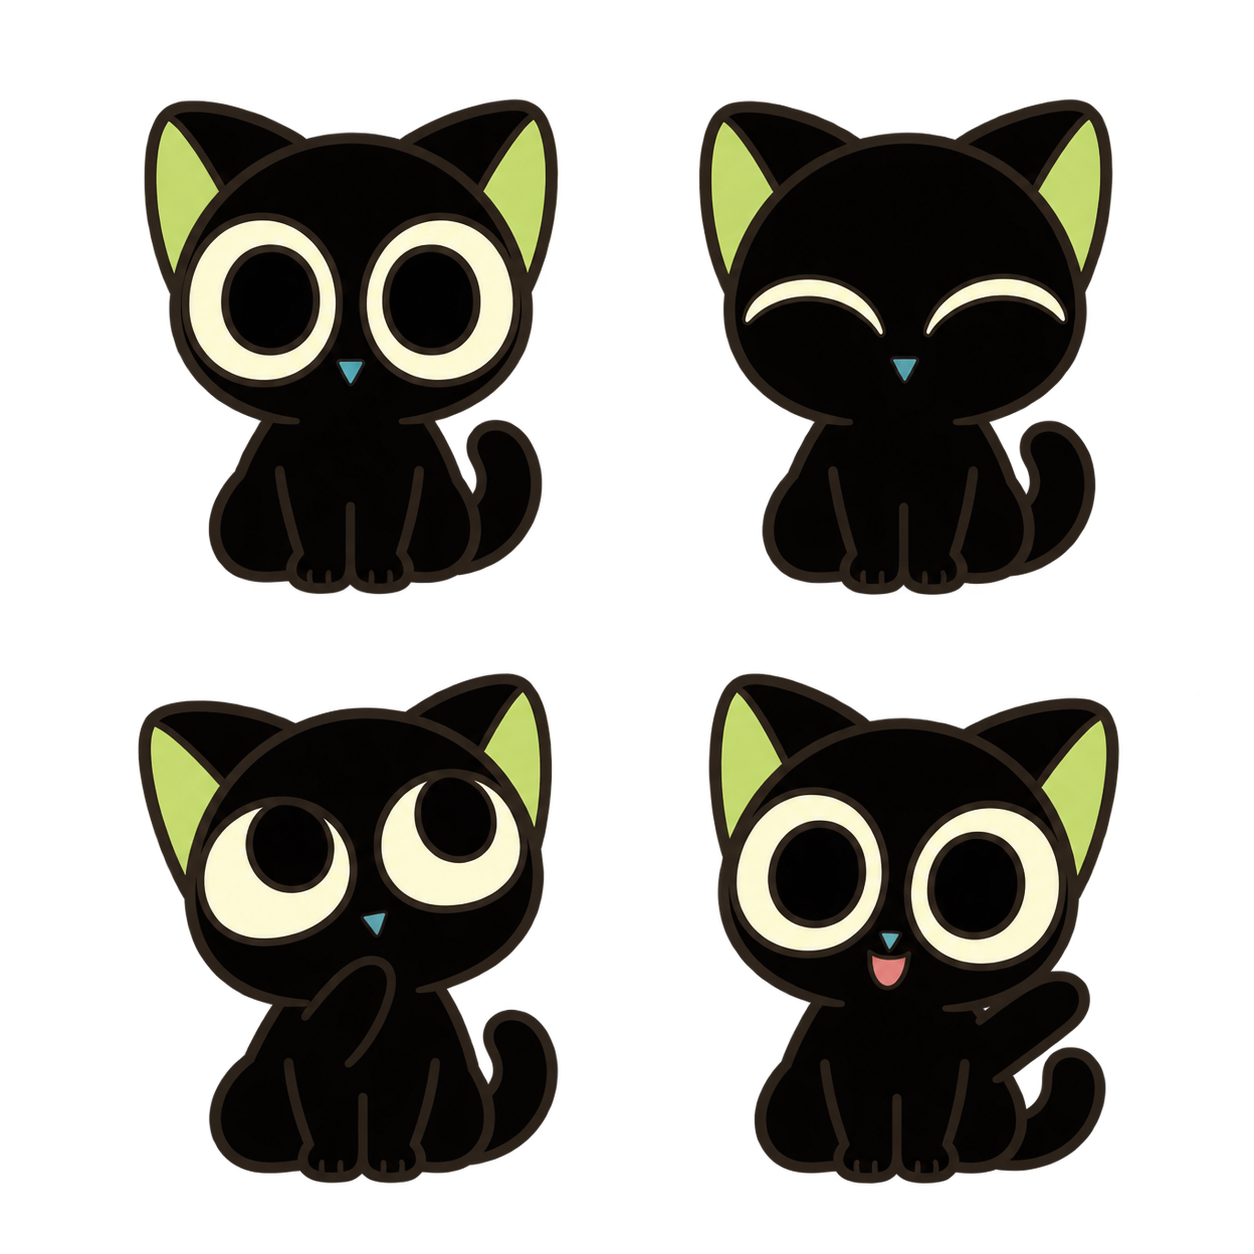
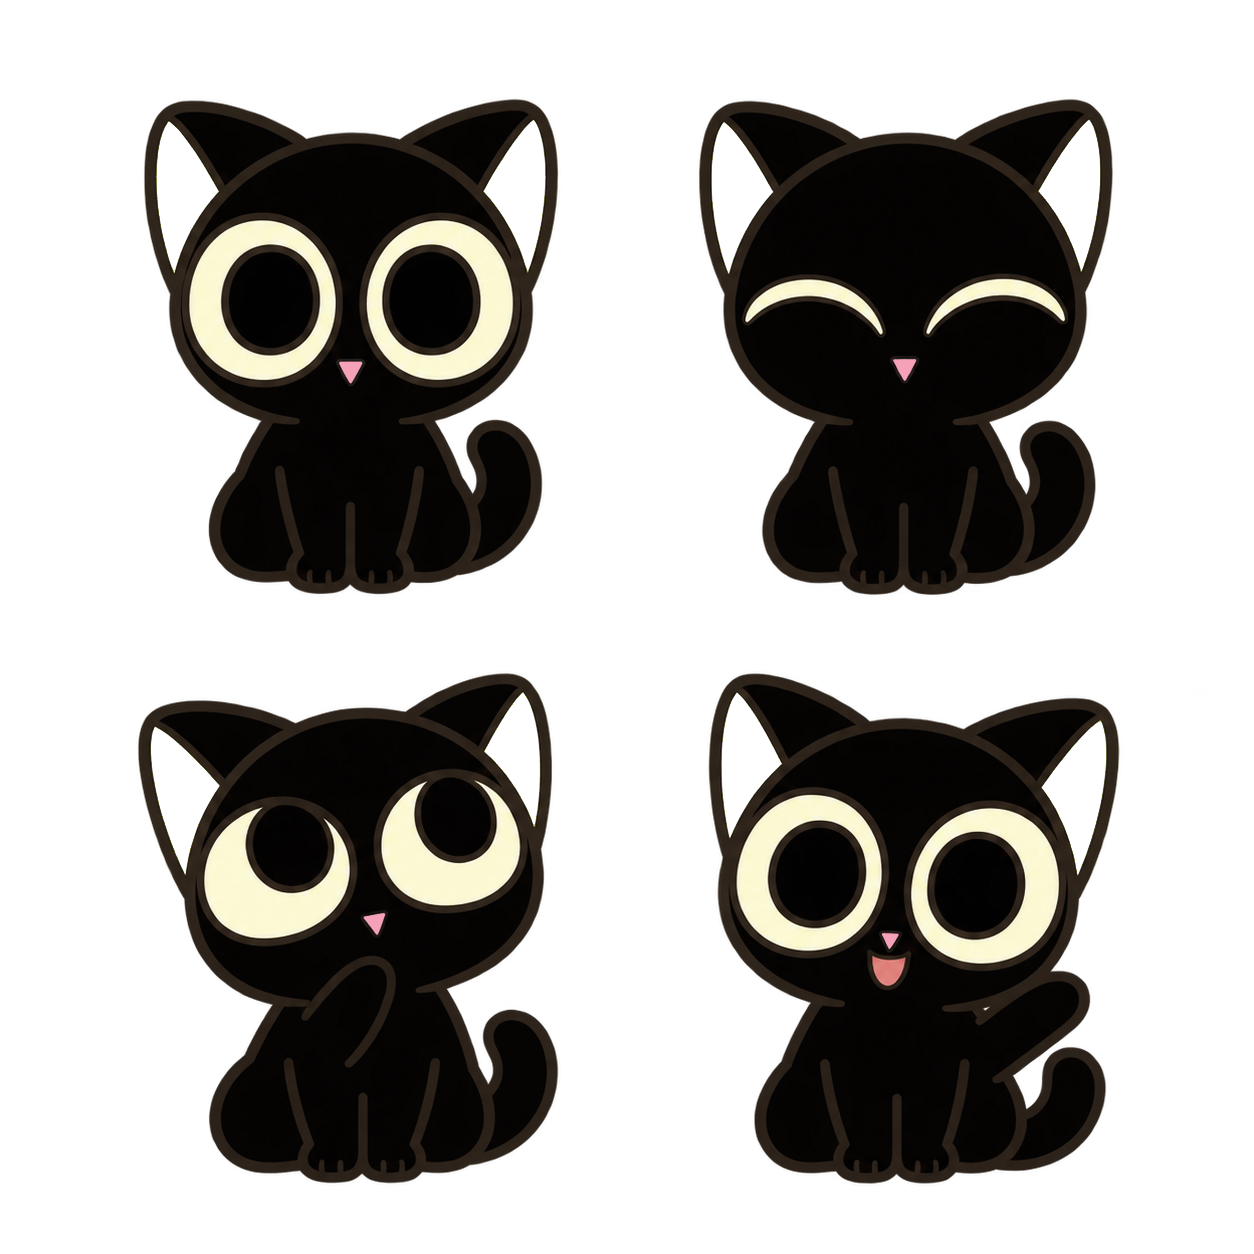
Recolor mascot with white inner ears and pink nose

diff --git a/public/mascot/README.md b/public/mascot/README.md
@@ -2,6 +2,8 @@
 
 Generated with the built-in Imagegen tool from the two owner-supplied black-cat reference images. No source reference photos or resume PDF are committed.
 
+At the owner's request, the original transparent atlas was recolored with a script: white inner ears and pastel-pink noses in all four frames. Frame positions and dimensions are unchanged; every alpha value was verified identical to the original. The prompt below records the initial generation, before this recolor.
+
 `cat-atlas.png` is a transparent 2 x 2 sprite atlas. Cells in reading order: idle, closed eyes, thinking, greeting/speaking. `app/chat.css` selects cells using background-position and animates the sprite. It is a 2D mascot, not a 3D or Live2D rig.
 
 ## Generation prompt
